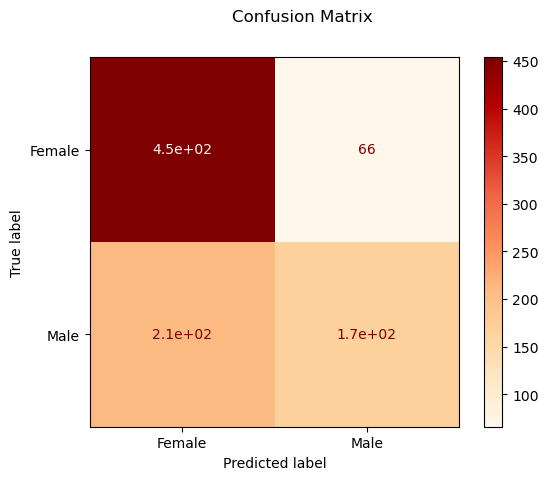
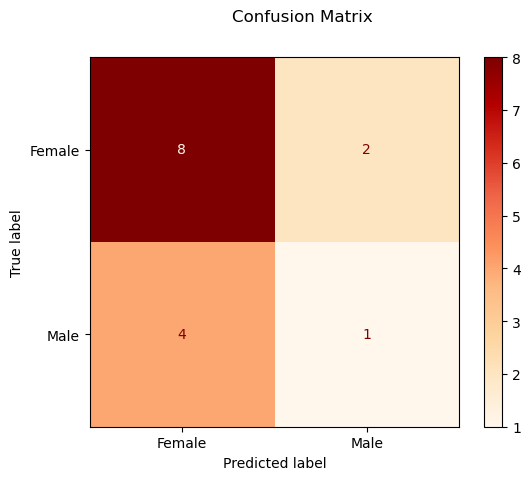
Fix Code

diff --git a/MainCarmine.py b/MainCarmine.py
@@ -1,65 +1,31 @@
 import pandas as pd
-import numpy as np
 import matplotlib.pyplot as plt
-import scipy
-from PIL.Image import Image
-from matplotlib.colors import ListedColormap
-from mlxtend.plotting import plot_learning_curves
 from sklearn import svm, metrics
-from sklearn.linear_model import Ridge
-from sklearn.model_selection import train_test_split, validation_curve, ShuffleSplit, learning_curve, StratifiedKFold
-from sklearn.preprocessing import StandardScaler
-from sklearn.datasets import make_moons, make_circles, make_classification
-from sklearn.neural_network import MLPClassifier
-from sklearn.neighbors import KNeighborsClassifier
 from sklearn.svm import SVC
-from sklearn.gaussian_process import GaussianProcessClassifier
-from sklearn.gaussian_process.kernels import RBF
-from sklearn.tree import DecisionTreeClassifier
-from sklearn.ensemble import RandomForestClassifier, AdaBoostClassifier
-from sklearn.naive_bayes import GaussianNB
-from sklearn.discriminant_analysis import QuadraticDiscriminantAnalysis
 import time
 
 start_time = time.time()
 
-#caricamento dei due dataset
+#Caricamento dei due dataset
 dataset = pd.read_csv("DatasetCelebA/dataset4c3s.csv",header=None)
 feature = pd.read_csv("DatasetCelebA/list_attr_celeba.csv")
 
-num_righe=3000
-
-#print (dataset.shape)
-#print (type(dataset))
+#Imposto il numero di righe
+num_righe=50
 
 #Salvo in datafram le prime 100 righe di dataset
 dataframe = dataset.iloc[0:num_righe, 0:48]
 
-#print(feature.shape)
-#print(type(feature))
-
 #salvo in feat le prime 100 righe
 feat = feature.iloc[0:num_righe,21]
 df_X = pd.DataFrame(feat)
+
 #rinonimo la colonna da Male a Gender
 rename = df_X.rename(columns={"Male" : "Gender"}) #-1 donna e 1 maschio
-#print(rename)
 
 #Concateno i due dataframe per crearne uno
 dfconc = pd.concat([dataframe, rename], axis=1, sort=False)
 print(dfconc)
-#Stampa intero dataset
-#print (dataset)
-
-#print (list(feature))
-
-#colonna del gender per le prime 8 foto
-#feat = feature.iloc[0:2,[0,21]]
-
-
-#merge
-#result = pd.merge(dataset,rename,left_on=' ',right_on='Gender',how='left')
-#print(result)
 
 #Salvo in X_split le prime 50 righe e 64 colonne per i landmark
 X_split = dfconc.iloc[0:num_righe,0:48].values
@@ -70,36 +36,19 @@ Y_split = dfconc.iloc[0:num_righe, 48].values #classi
 from sklearn.model_selection import train_test_split
 X_train, X_test, y_train, y_test = train_test_split(X_split, Y_split, test_size = 0.3, random_state = 0)
 
+#Stampo del numero di elementi di Training
 print(X_train.shape)
-#print(X_train)
 print(y_train.shape)
-#print(y_train)
-print(X_test.shape)
-#print(X_test)
-print(y_test.shape)
-#print(y_test)
 
+#Stampa del numero di elementi di Test
+print(X_test.shape)
+print(y_test.shape)
 
 #Creazione del classificatore
-
-#classifier = SVC(kernel="linear", C=1)
-classifier = SVC(C=1, break_ties=False, cache_size=200, class_weight=None, coef0=0.0,
-   decision_function_shape='ovr', degree=3, gamma=0.1, kernel='rbf',
+classifier = SVC(C=10, break_ties=False, cache_size=200, class_weight=None, coef0=0.0,
+   decision_function_shape='ovr', degree=3, gamma='auto', kernel='rbf',
    max_iter=-1, probability=False, random_state=1, shrinking=True, tol=0.001,
    verbose=False)
-
-# classifier = SVC(kernel='sigmoid', gamma=.01, C=1) #al variare di gamma e C
-# classifier = SVC(kernel='poly', random_state=1, gamma='auto', C=1) #al variare di gamma e C
-
-# classifier = MLPClassifier(activation='relu', alpha=1, batch_size='auto', beta_1=0.9,
-#               beta_2=0.999, early_stopping=False, epsilon=1e-08,
-#               hidden_layer_sizes=(100,), learning_rate='constant',
-#               learning_rate_init=0.001, max_fun=15000, max_iter=1000,
-#               momentum=0.9, n_iter_no_change=10, nesterovs_momentum=True,
-#               power_t=0.5, random_state=None, shuffle=True, solver='adam',
-#               tol=0.0001, validation_fraction=0.1, verbose=False,
-#               warm_start=False)
-
 
 #Si allena il classificatore
 classifier.fit(X_train, y_train)
@@ -107,9 +56,7 @@ classifier.fit(X_train, y_train)
 # E ora si predice sul Test Set
 predicted = classifier.predict(X_test)
 
-#print(predicted)
-#print(y_test)
-
+#Rinomino i campi per la matrice di confusione
 labels = ("Female","Male")
 positions = (0,1)
 
@@ -120,17 +67,16 @@ disp = metrics.plot_confusion_matrix(classifier, X_test, y_test, cmap="OrRd")
 disp.figure_.suptitle("Confusion Matrix")
 print("Confusion matrix:\n%s" % disp.confusion_matrix)
 
+#Stampa del tempo intercorso per processare il classificatore
 print ("\nTempo trascorso: {:.2f}m\n".format((time.time()-start_time)/60))
 
-
-#Stampa a video
+#Stampa a video della matrice di confusione
 plt.xticks(positions,labels)
 plt.yticks(positions,labels)
 plt.savefig('ConfusionMatrix.png', bbox_inches='tight')
 plt.show()
 
-
-# Accuratezza
+#Stampa dell'accuratezza
 from sklearn.metrics import accuracy_score
 print("Accuratezza: ")
 print(accuracy_score(y_test, predicted))
